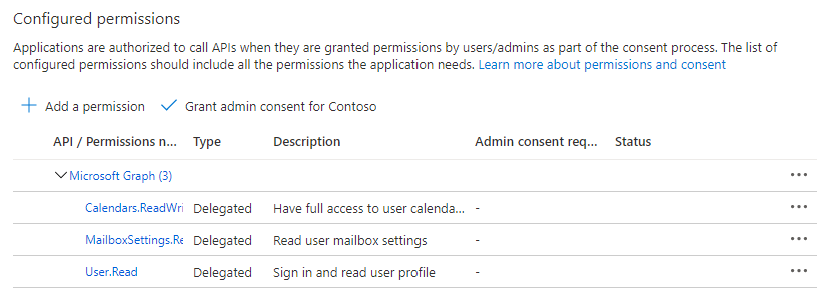
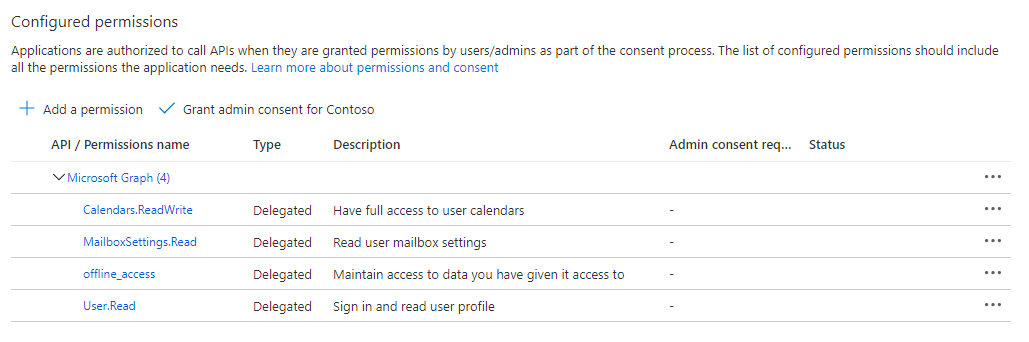
Tweaks from testing with personal account

diff --git a/demo/graph-tutorial/src/api/auth.ts b/demo/graph-tutorial/src/api/auth.ts
@@ -18,7 +18,7 @@ const msalClient = new msal.ConfidentialClientApplication({
 });
 
 const keyClient = jwksClient({
-  jwksUri: 'https://login.microsoftonline.com/common/discovery/keys'
+  jwksUri: 'https://login.microsoftonline.com/common/discovery/v2.0/keys'
 });
 
 // Parses the JWT header and retrieves the appropriate public key
@@ -40,14 +40,14 @@ async function validateJwt(authHeader: string): Promise<string | null> {
     const token = authHeader.split(' ')[1];
 
     // Ensure that the audience matches the app ID
-    // the issuer is correct, and the signature is valid
+    // and the signature is valid
     const validationOptions = {
-      audience: process.env.AZURE_APP_ID,
-      issuer: `https://login.microsoftonline.com/${process.env.AZURE_TENANT_ID}/v2.0`
+      audience: process.env.AZURE_APP_ID
     };
 
     jwt.verify(token, getSigningKey, validationOptions, (err, payload) => {
       if (err) {
+        console.log(`Verify error: ${JSON.stringify(err)}`);
         resolve(null);
       } else {
         resolve(token);

diff --git a/demo/graph-tutorial/src/addin/taskpane.js b/demo/graph-tutorial/src/addin/taskpane.js
@@ -318,7 +318,7 @@ Office.onReady(info => {
         apiToken = await OfficeRuntime.auth.getAccessToken({ allowSignInPrompt: true });
         console.log(`API Token: ${apiToken}`);
       } catch (error) {
-        console.log(`getAccessToken error: ${error}`);
+        console.log(`getAccessToken error: ${JSON.stringify(error)}`);
         // Fall back to interactive login
         showConsentUi();
       }
@@ -337,7 +337,7 @@ Office.onReady(info => {
         // report error
         if (authStatus.status === 'error') {
           const error = JSON.stringify(authStatus.error,
-            Object.getOwnPropertyNames(authstatus.error));
+            Object.getOwnPropertyNames(authStatus.error));
           showStatus(`Error checking auth status: ${error}`, true);
         } else {
           showMainUi();

diff --git a/demo/README.md b/demo/README.md
@@ -28,7 +28,7 @@ If you don't have a Microsoft account, there are a couple of options to get a fr
 
     ![A screenshot of the Register an application page](/tutorial/images/register-an-app.png)
 
-1. Select **Register**. On the **Office Add-in Graph Tutorial** page, copy the value of the **Application (client) ID** and **Directory (tenant) ID** and save them, you will need them in the next step.
+1. Select **Register**. On the **Office Add-in Graph Tutorial** page, copy the value of the **Application (client) ID** and save it, you will need it in the next step.
 
     ![A screenshot of the application ID of the new app registration](/tutorial/images/application-id.png)
 
@@ -105,9 +105,12 @@ Update the app registration to support [Office Add-in single sign-on (SSO)](http
 1. Edit the `.env` file and make the following changes.
     1. Replace `YOUR_APP_ID_HERE` with the **Application Id** you got from the App Registration Portal.
     1. Replace `YOUR_CLIENT_SECRET_HERE` with the client secret you got from the App Registration Portal.
-    1. Replace `YOUR_TENANT_ID_HERE` with the tenant ID you got from the App Registration Portal.
     1. Replace `PATH_TO_LOCALHOST.CRT` with the path to your localhost.crt file from the output of the `npx office-addin-dev-certs install` command.
     1. Replace `PATH_TO_LOCALHOST.KEY` with the path to your localhost.key file from the output of the `npx office-addin-dev-certs install` command.
+
+1. Rename the `config.example.js` file to `config.js`.
+1. Edit the `config.js` file and make the following changes.
+    1. Replace `YOUR_APP_ID_HERE` with the **Application Id** you got from the App Registration Portal.
 1. In your command-line interface (CLI), navigate to this directory and run the following command to install requirements.
 
     ```Shell

diff --git a/tutorial/03-register-app.md b/tutorial/03-register-app.md
@@ -16,7 +16,7 @@ In this exercise, you will create a new Azure AD web application registration us
 
     ![A screenshot of the Register an application page](images/register-an-app.png)
 
-1. Select **Register**. On the **Office Add-in Graph Tutorial** page, copy the value of the **Application (client) ID** and **Directory (tenant) ID** and save them, you will need them in the next step.
+1. Select **Register**. On the **Office Add-in Graph Tutorial** page, copy the value of the **Application (client) ID** and save it, you will need it in the next step.
 
     ![A screenshot of the application ID of the new app registration](images/application-id.png)
 
@@ -33,6 +33,7 @@ In this exercise, you will create a new Azure AD web application registration us
 
 1. Select the following permissions, then select **Add permissions**.
 
+    - **offline_access** - this will allow the app to refresh access tokens when they expire.
     - **Calendars.ReadWrite** - this will allow the app to read and write to the user's calendar.
     - **MailboxSettings.Read** - this will allow the app to get the user's time zone from their mailbox settings.
 

diff --git a/tutorial/04-add-aad-auth.md b/tutorial/04-add-aad-auth.md
@@ -13,7 +13,7 @@ Office Add-in SSO provides an access token, but that token is only enables the a
 
 ## Configure the solution
 
-1. Open **./.env** and update the `AZURE_APP_ID`, `AZURE_CLIENT_SECRET`, and `AZURE_TENANT_ID` with the application ID, client secret, and tenant ID from your app registration.
+1. Open **./.env** and update the `AZURE_APP_ID` and `AZURE_CLIENT_SECRET` with the application ID and client secret from your app registration.
 
     > [!IMPORTANT]
     > If you're using source control such as git, now would be a good time to exclude the **.env** file from source control to avoid inadvertently leaking your app ID and client secret.
